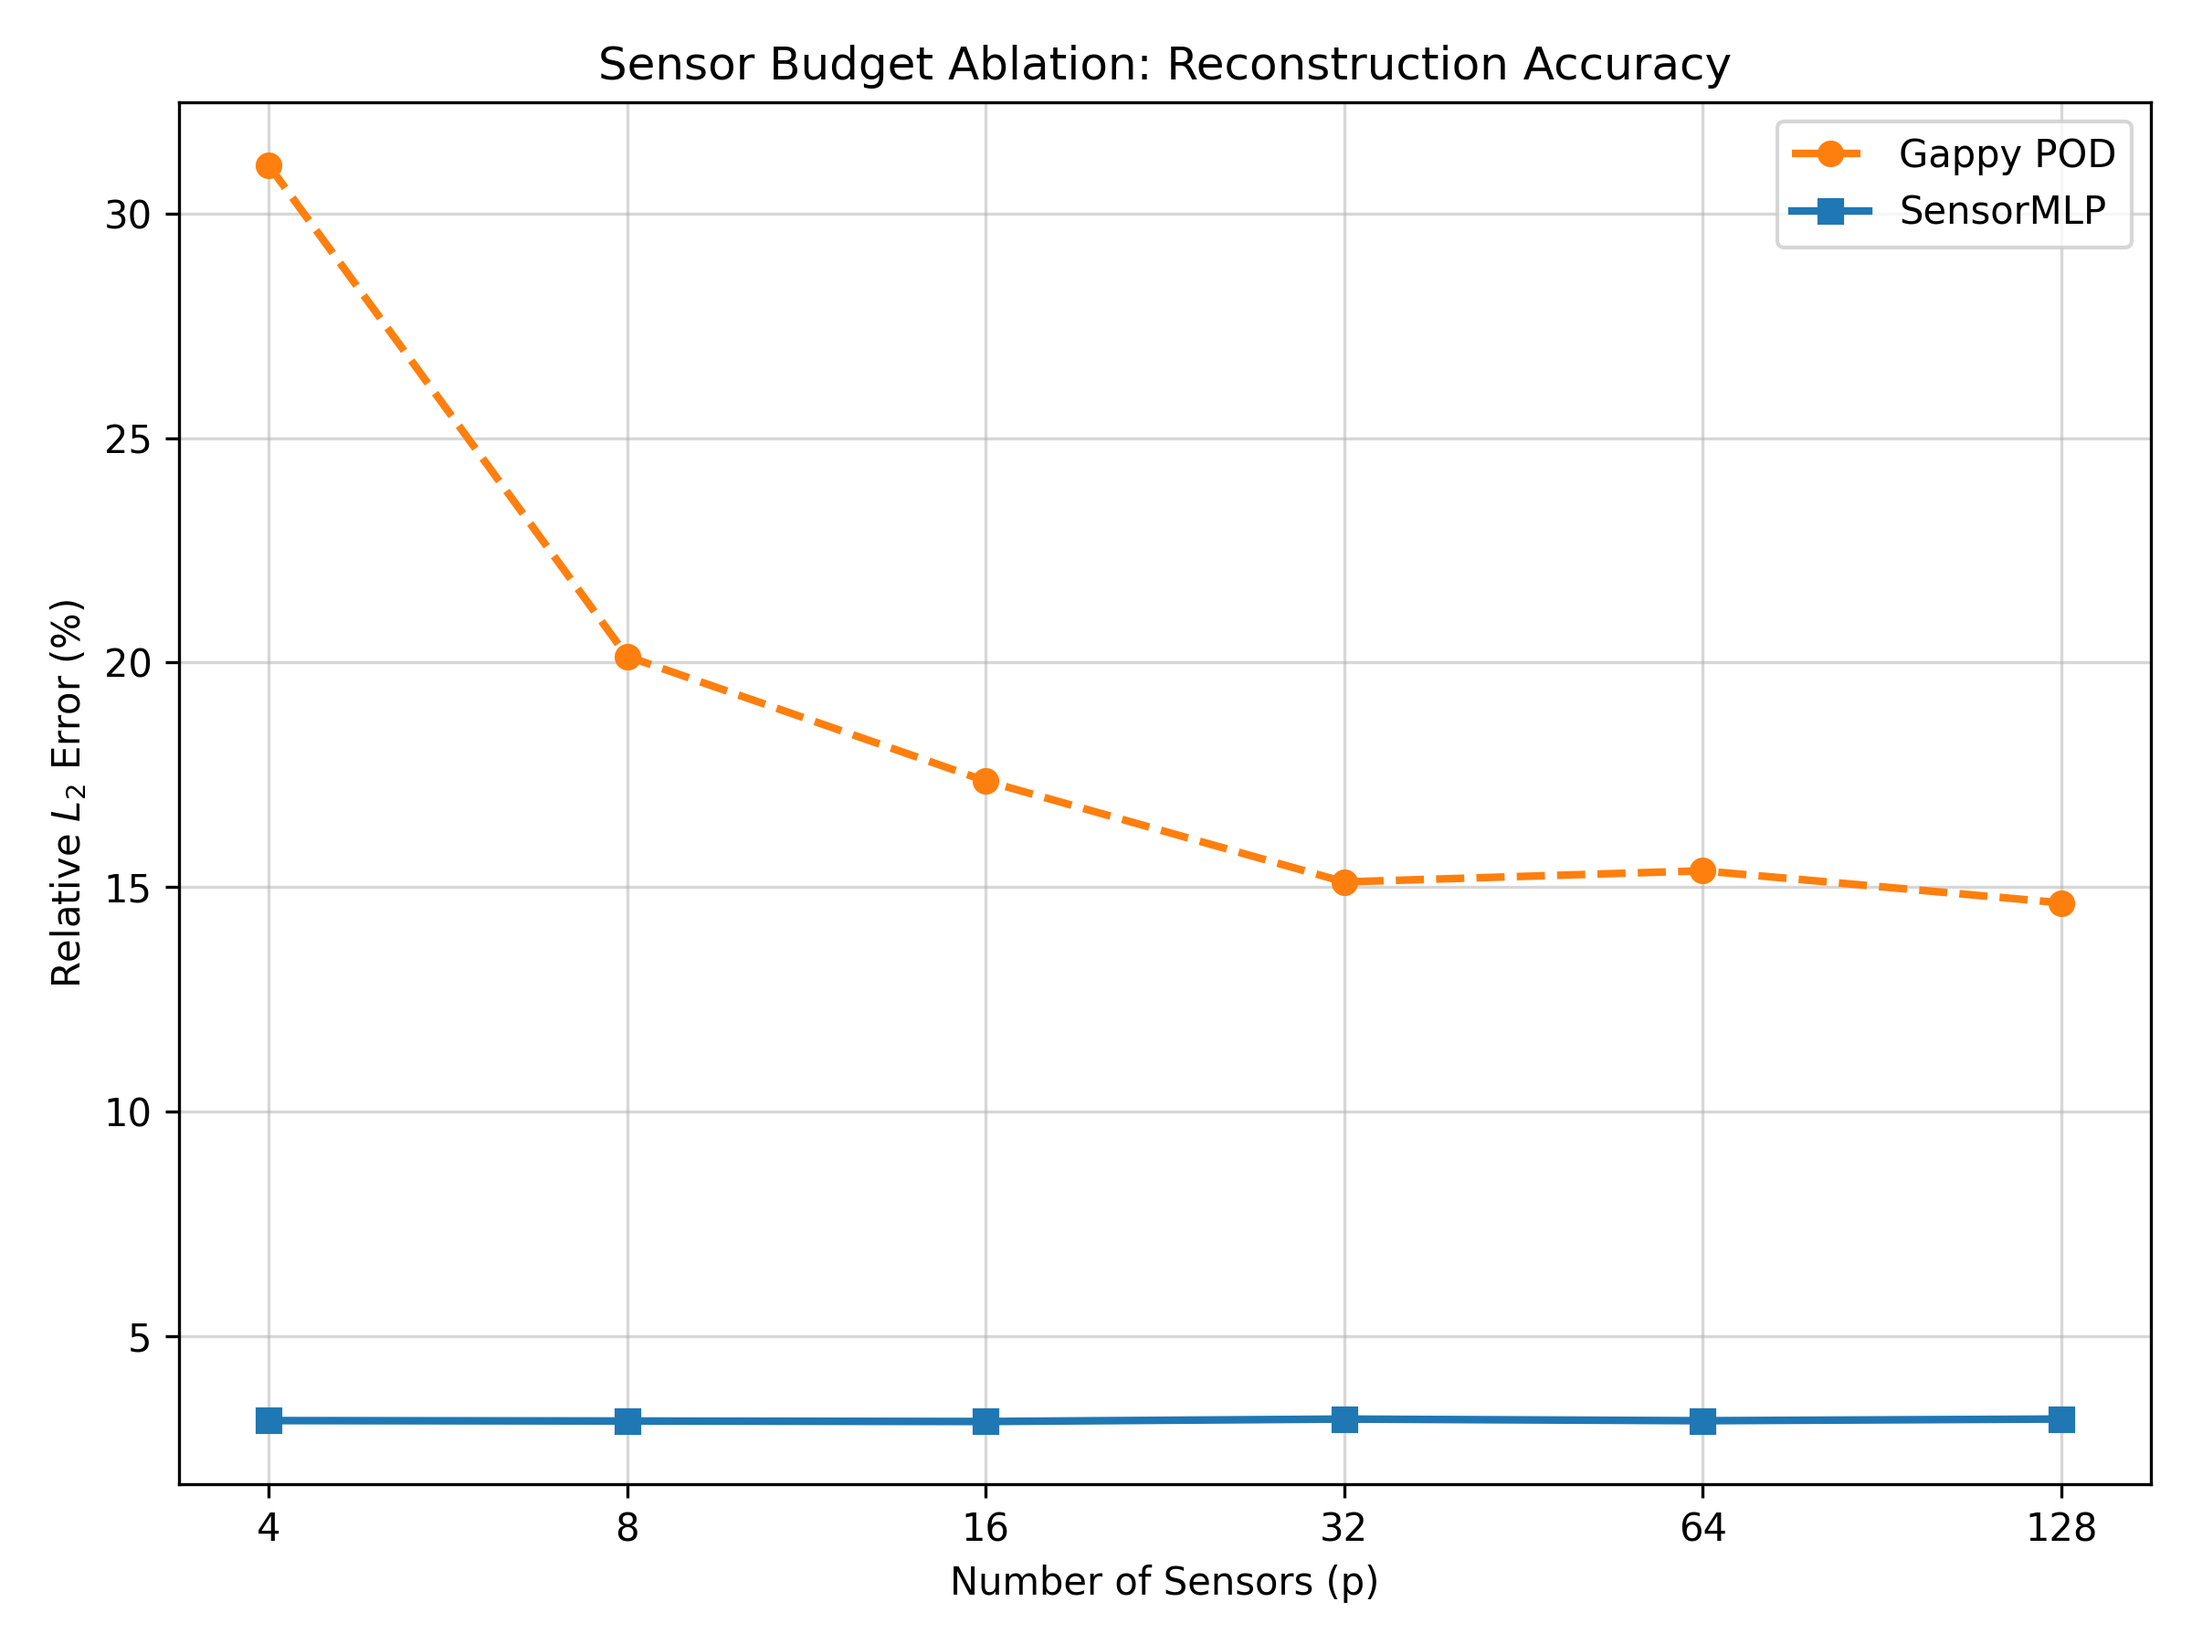
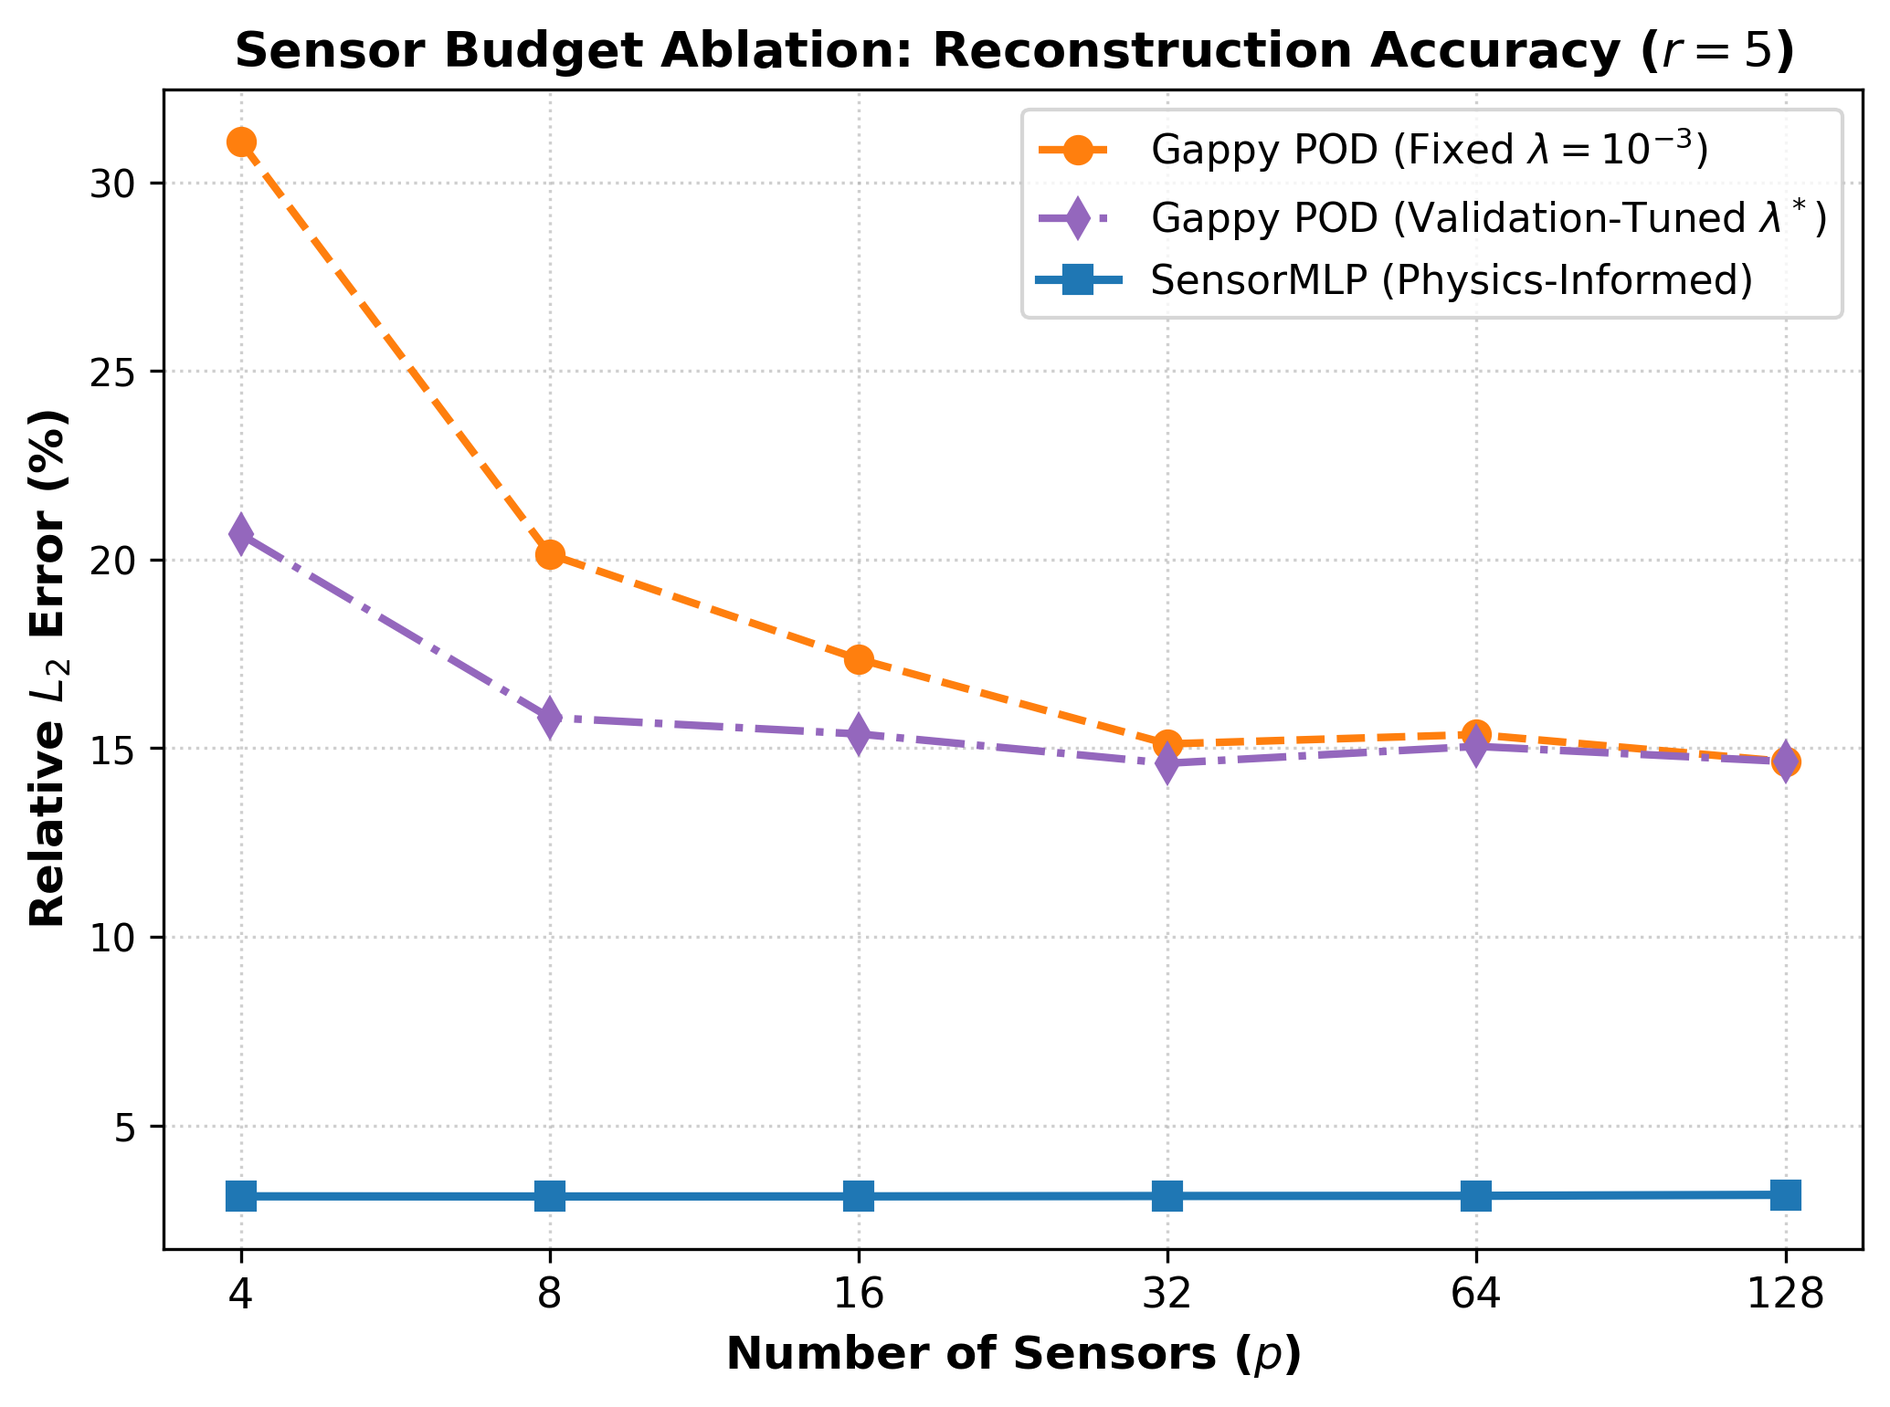
minor changes in image generated

diff --git a/scripts/stage3_psweep.py b/scripts/stage3_psweep.py
@@ -133,6 +133,29 @@ def compute_all_metrics(true_flat, pred_flat, X_grid, Y_grid, cyl_mask, ring_mas
         'wall_p_mae': wall_p_mae
     }
 
+def plot_psweep_curve(sweep_results, output_path, r=5):
+    import matplotlib.pyplot as plt
+    p_keys = [str(k) for k in sorted([int(k) for k in sweep_results.keys()])]
+    x_pos = range(len(p_keys))
+    g_fixed = [sweep_results[k]['gappy_fixed_1e3']['rel_l2_pct'] for k in p_keys]
+    g_tuned = [sweep_results[k]['gappy_tuned']['metrics']['rel_l2_pct'] for k in p_keys]
+    mlp_m = [sweep_results[k]['sensor_mlp_mean']['rel_l2_pct'] for k in p_keys]
+
+    plt.figure(figsize=(8, 5.5))
+    plt.plot(x_pos, g_fixed, 'o--', color='#ff7f0e', linewidth=2, markersize=7, label=r'Gappy POD (Fixed $\lambda = 10^{-3}$)')
+    plt.plot(x_pos, g_tuned, 'd-.', color='#9467bd', linewidth=2, markersize=7, label=r'Gappy POD (Validation-Tuned $\lambda^*$)')
+    plt.plot(x_pos, mlp_m, 's-', color='#1f77b4', linewidth=2.2, markersize=7, label='SensorMLP (Physics-Informed)')
+    plt.xticks(x_pos, p_keys, fontsize=11)
+    plt.xlabel(r'Number of Sensors ($p$)', fontsize=12, fontweight='bold')
+    plt.ylabel(r'Relative $L_2$ Error (%)', fontsize=12, fontweight='bold')
+    plt.title(f'Sensor Budget Ablation: Reconstruction Accuracy ($r = {r}$)', fontsize=13, fontweight='bold')
+    plt.grid(True, linestyle=':', alpha=0.6)
+    plt.legend(fontsize=10.5, frameon=True, loc='upper right')
+    os.makedirs(os.path.dirname(output_path), exist_ok=True)
+    plt.savefig(output_path, dpi=300, bbox_inches='tight')
+    plt.close()
+    print(f"Saved p-sweep figure to {output_path}")
+
 def run_psweep(quick=False, seeds=[0, 1, 2]):
     start_wall = time.time()
     device_name = torch.cuda.get_device_name(0) if torch.cuda.is_available() else "CPU"
@@ -315,6 +338,7 @@ def run_psweep(quick=False, seeds=[0, 1, 2]):
     with open(out_json, 'w') as f:
         json.dump(final_payload, f, indent=2)
     print(f"Saved Phase 1 results to {out_json}")
+    plot_psweep_curve(sweep_results, os.path.join(root_dir, 'output', 'ablation_sensor_scaling.png'), r=int(r))
     return final_payload
 
 if __name__ == '__main__':

diff --git a/scripts/stage3_reynolds_generalization.py b/scripts/stage3_reynolds_generalization.py
@@ -127,9 +127,10 @@ def plot_reynolds_generalization(re_values, re_labels, gappy_errs, pooled_mlp_er
     
     # Draw vertical separator between in-distribution and generalization regimes
     plt.axvline(2.5, color='gray', linestyle='--', alpha=0.7)
-    plt.text(1.2, max(max(single_mlp_errs), 30) * 0.9, 'Training Regime\n(Re in {100, 200, 300})', 
+    plt.ylim(0, 34)
+    plt.text(1.15, 30.2, 'Training Regime\n(Re in {100, 200, 300})', 
              ha='center', fontsize=10, fontweight='bold', bbox=dict(boxstyle='round,pad=0.3', facecolor='lightgreen', alpha=0.3))
-    plt.text(3.7, max(max(single_mlp_errs), 30) * 0.9, 'Zero-Shot Evaluation\n(Interpolation & Extrapolation)', 
+    plt.text(3.85, 30.2, 'Zero-Shot Evaluation\n(Interpolation & Extrapolation)', 
              ha='center', fontsize=10, fontweight='bold', bbox=dict(boxstyle='round,pad=0.3', facecolor='wheat', alpha=0.3))
     
     plt.xticks(x_positions, re_labels, fontsize=11)
@@ -137,7 +138,7 @@ def plot_reynolds_generalization(re_values, re_labels, gappy_errs, pooled_mlp_er
     plt.ylabel('Test Relative $L_2$ Error (%)', fontsize=12, fontweight='bold')
     plt.title('Reynolds Number Generalization Performance ($p = 16$ Sensors)', fontsize=13, fontweight='bold', pad=10)
     plt.grid(True, linestyle=':', alpha=0.6)
-    plt.legend(fontsize=10.5, frameon=True, facecolor='white', framealpha=0.9, loc='upper left')
+    plt.legend(fontsize=10.0, frameon=True, facecolor='white', framealpha=0.92, loc='upper right', bbox_to_anchor=(0.99, 0.84))
     
     os.makedirs(os.path.dirname(output_path), exist_ok=True)
     plt.savefig(output_path, dpi=300, bbox_inches='tight')
